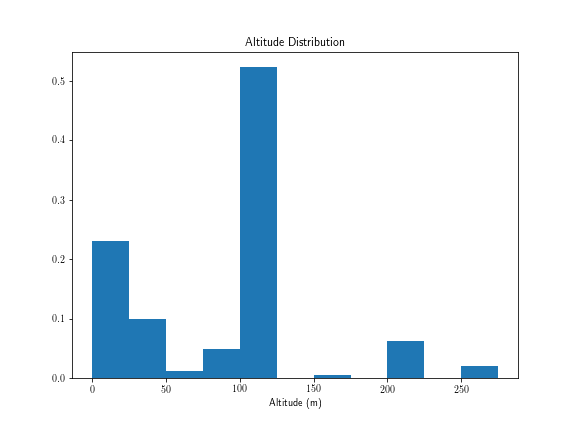
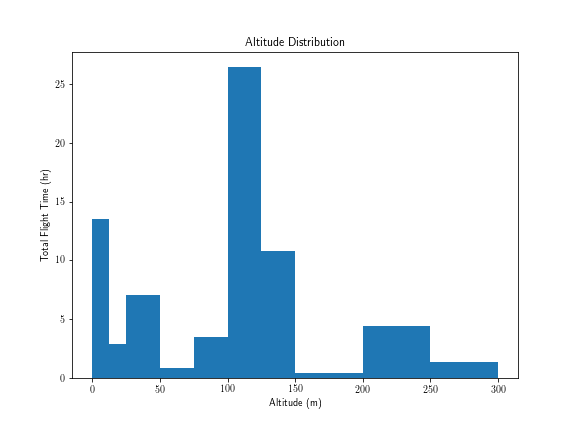
Updated old plots, added cruise_speed and flight_platforms

diff --git a/outputs/extents.html b/outputs/extents.html
@@ -23,7 +23,7 @@
             <meta name="viewport" content="width=device-width,
                 initial-scale=1.0, maximum-scale=1.0, user-scalable=no" />
             <style>
-                #map_323bf7a3beb649e986a7d09b306d6a6f {
+                #map_86d81129e9d8494ba6395b3a7c41fe23 {
                     position: relative;
                     width: 100.0%;
                     height: 100.0%;
@@ -35,18 +35,18 @@
 </head>
 <body>    
     
-            <div class="folium-map" id="map_323bf7a3beb649e986a7d09b306d6a6f" ></div>
+            <div class="folium-map" id="map_86d81129e9d8494ba6395b3a7c41fe23" ></div>
         
 </body>
 <script>    
     
-            var map_323bf7a3beb649e986a7d09b306d6a6f = L.map(
-                "map_323bf7a3beb649e986a7d09b306d6a6f",
+            var map_86d81129e9d8494ba6395b3a7c41fe23 = L.map(
+                "map_86d81129e9d8494ba6395b3a7c41fe23",
                 {
                     center: [32.61058644444444, -113.9595255],
                     crs: L.CRS.EPSG3857,
-                    zoomControl: true,
                     preferCanvas: false,
+                    zoomControl: true,
                     zoom: 4,
                 }
             );
@@ -55,19 +55,19 @@
 
         
     
-            var tile_layer_db0160daa50b471b8eaaeafa8e8aaa09 = L.tileLayer(
+            var tile_layer_270edd4af39c443f8cb472a4529f2bf8 = L.tileLayer(
                 "https://cartodb-basemaps-{s}.global.ssl.fastly.net/light_all/{z}/{x}/{y}.png",
                 {"attribution": "\u0026copy; \u003ca href=\"http://www.openstreetmap.org/copyright\"\u003eOpenStreetMap\u003c/a\u003e contributors \u0026copy; \u003ca href=\"http://cartodb.com/attributions\"\u003eCartoDB\u003c/a\u003e, CartoDB \u003ca href =\"http://cartodb.com/attributions\"\u003eattributions\u003c/a\u003e", "detectRetina": false, "maxNativeZoom": 18, "maxZoom": 18, "minZoom": 0, "noWrap": false, "opacity": 1, "subdomains": "abc", "tms": false}
-            ).addTo(map_323bf7a3beb649e986a7d09b306d6a6f);
+            ).addTo(map_86d81129e9d8494ba6395b3a7c41fe23);
         
     
-            var marker_f23ddd304cf541d78965924d82bb402d = L.marker(
+            var marker_33e94871ff084a46a90b004fc2279231 = L.marker(
                 [37.872001, -122.319992],
                 {}
-            ).addTo(map_323bf7a3beb649e986a7d09b306d6a6f);
+            ).addTo(map_86d81129e9d8494ba6395b3a7c41fe23);
         
     
-            marker_f23ddd304cf541d78965924d82bb402d.bindTooltip(
+            marker_33e94871ff084a46a90b004fc2279231.bindTooltip(
                 `<div>
                      Berkeley
                  </div>`,
@@ -75,19 +75,19 @@
             );
         
     
-            var polygon_b3b2bdcaf35542b2af3e2ad1618ff96a = L.polygon(
+            var polygon_a0600bbea90a4321be22e24b23c53f77 = L.polygon(
                 [[37.87132, -122.320851], [37.87132, -122.319133], [37.872682, -122.319133], [37.872682, -122.320851]],
                 {"bubblingMouseEvents": true, "color": "#3388ff", "dashArray": null, "dashOffset": null, "fill": false, "fillColor": "#3388ff", "fillOpacity": 0.2, "fillRule": "evenodd", "lineCap": "round", "lineJoin": "round", "noClip": false, "opacity": 1.0, "smoothFactor": 1.0, "stroke": true, "weight": 3}
-            ).addTo(map_323bf7a3beb649e986a7d09b306d6a6f);
+            ).addTo(map_86d81129e9d8494ba6395b3a7c41fe23);
         
     
-            var marker_d3bad7007b884733b00582d1bf5e514f = L.marker(
+            var marker_812b24cafa08449e983dcd8c7a7518eb = L.marker(
                 [37.8997885, -122.286862],
                 {}
-            ).addTo(map_323bf7a3beb649e986a7d09b306d6a6f);
+            ).addTo(map_86d81129e9d8494ba6395b3a7c41fe23);
         
     
-            marker_d3bad7007b884733b00582d1bf5e514f.bindTooltip(
+            marker_812b24cafa08449e983dcd8c7a7518eb.bindTooltip(
                 `<div>
                      Napa Valley
                  </div>`,
@@ -95,19 +95,19 @@
             );
         
     
-            var polygon_5badbc3ca671465baae60b4d60b42e57 = L.polygon(
+            var polygon_608e993549d946c0a5ea07d85d64e47f = L.polygon(
                 [[37.899743, -122.286919], [37.899743, -122.286805], [37.899834, -122.286805], [37.899834, -122.286919]],
                 {"bubblingMouseEvents": true, "color": "#3388ff", "dashArray": null, "dashOffset": null, "fill": false, "fillColor": "#3388ff", "fillOpacity": 0.2, "fillRule": "evenodd", "lineCap": "round", "lineJoin": "round", "noClip": false, "opacity": 1.0, "smoothFactor": 1.0, "stroke": true, "weight": 3}
-            ).addTo(map_323bf7a3beb649e986a7d09b306d6a6f);
+            ).addTo(map_86d81129e9d8494ba6395b3a7c41fe23);
         
     
-            var marker_55d7d26f839a4002b93318902ed5bdf5 = L.marker(
+            var marker_d2056784bd10407e910dd8c2ac36dde6 = L.marker(
                 [33.971118499999996, -117.344206],
                 {}
-            ).addTo(map_323bf7a3beb649e986a7d09b306d6a6f);
+            ).addTo(map_86d81129e9d8494ba6395b3a7c41fe23);
         
     
-            marker_55d7d26f839a4002b93318902ed5bdf5.bindTooltip(
+            marker_d2056784bd10407e910dd8c2ac36dde6.bindTooltip(
                 `<div>
                      Riverside
                  </div>`,
@@ -115,19 +115,19 @@
             );
         
     
-            var polygon_1890087a1dd9432484f23b0f9c5ca7b8 = L.polygon(
+            var polygon_c0edc0a19ba540339a9167ef36f3cf8b = L.polygon(
                 [[33.970074, -117.34535], [33.970074, -117.343062], [33.972163, -117.343062], [33.972163, -117.34535]],
                 {"bubblingMouseEvents": true, "color": "#3388ff", "dashArray": null, "dashOffset": null, "fill": false, "fillColor": "#3388ff", "fillOpacity": 0.2, "fillRule": "evenodd", "lineCap": "round", "lineJoin": "round", "noClip": false, "opacity": 1.0, "smoothFactor": 1.0, "stroke": true, "weight": 3}
-            ).addTo(map_323bf7a3beb649e986a7d09b306d6a6f);
+            ).addTo(map_86d81129e9d8494ba6395b3a7c41fe23);
         
     
-            var marker_2ec607e2ee91428a9524aa4181058aac = L.marker(
+            var marker_1c1cfcc258e44ace8db592beeed3b171 = L.marker(
                 [32.885363, -117.23518050000001],
                 {}
-            ).addTo(map_323bf7a3beb649e986a7d09b306d6a6f);
+            ).addTo(map_86d81129e9d8494ba6395b3a7c41fe23);
         
     
-            marker_2ec607e2ee91428a9524aa4181058aac.bindTooltip(
+            marker_1c1cfcc258e44ace8db592beeed3b171.bindTooltip(
                 `<div>
                      Warren Canyon
                  </div>`,
@@ -135,19 +135,19 @@
             );
         
     
-            var polygon_5ce3340e51c04f298f4994ae645d3967 = L.polygon(
+            var polygon_b2ab2961281447f9ba6fdf93dc0c003a = L.polygon(
                 [[32.882564, -117.23811], [32.882564, -117.232251], [32.888162, -117.232251], [32.888162, -117.23811]],
                 {"bubblingMouseEvents": true, "color": "#3388ff", "dashArray": null, "dashOffset": null, "fill": false, "fillColor": "#3388ff", "fillOpacity": 0.2, "fillRule": "evenodd", "lineCap": "round", "lineJoin": "round", "noClip": false, "opacity": 1.0, "smoothFactor": 1.0, "stroke": true, "weight": 3}
-            ).addTo(map_323bf7a3beb649e986a7d09b306d6a6f);
+            ).addTo(map_86d81129e9d8494ba6395b3a7c41fe23);
         
     
-            var marker_afee17038f4a41d2a35c0c7fb5db9c6e = L.marker(
+            var marker_76c8ad869b884773a8724e303d79ac0a = L.marker(
                 [32.859233, -117.231629],
                 {}
-            ).addTo(map_323bf7a3beb649e986a7d09b306d6a6f);
+            ).addTo(map_86d81129e9d8494ba6395b3a7c41fe23);
         
     
-            marker_afee17038f4a41d2a35c0c7fb5db9c6e.bindTooltip(
+            marker_76c8ad869b884773a8724e303d79ac0a.bindTooltip(
                 `<div>
                      La Jolla
                  </div>`,
@@ -155,19 +155,19 @@
             );
         
     
-            var polygon_fb592792d35649f4b5ec25d31721b186 = L.polygon(
+            var polygon_971bd8ddccf94418824e6988b2117465 = L.polygon(
                 [[32.859171, -117.231697], [32.859171, -117.231561], [32.859295, -117.231561], [32.859295, -117.231697]],
                 {"bubblingMouseEvents": true, "color": "#3388ff", "dashArray": null, "dashOffset": null, "fill": false, "fillColor": "#3388ff", "fillOpacity": 0.2, "fillRule": "evenodd", "lineCap": "round", "lineJoin": "round", "noClip": false, "opacity": 1.0, "smoothFactor": 1.0, "stroke": true, "weight": 3}
-            ).addTo(map_323bf7a3beb649e986a7d09b306d6a6f);
+            ).addTo(map_86d81129e9d8494ba6395b3a7c41fe23);
         
     
-            var marker_2d4197764fbd40379f7c4107bc872477 = L.marker(
+            var marker_50386160a541412b988a65015ab8db0b = L.marker(
                 [32.9904245, -117.1294915],
                 {}
-            ).addTo(map_323bf7a3beb649e986a7d09b306d6a6f);
+            ).addTo(map_86d81129e9d8494ba6395b3a7c41fe23);
         
     
-            marker_2d4197764fbd40379f7c4107bc872477.bindTooltip(
+            marker_50386160a541412b988a65015ab8db0b.bindTooltip(
                 `<div>
                      Black Mountain
                  </div>`,
@@ -175,19 +175,19 @@
             );
         
     
-            var polygon_f67e9b5807124b6a9529c8c1acd0c38d = L.polygon(
+            var polygon_255179fd7db143b995ab3e558b3ffa0e = L.polygon(
                 [[32.98801, -117.130834], [32.98801, -117.128149], [32.992839, -117.128149], [32.992839, -117.130834]],
                 {"bubblingMouseEvents": true, "color": "#3388ff", "dashArray": null, "dashOffset": null, "fill": false, "fillColor": "#3388ff", "fillOpacity": 0.2, "fillRule": "evenodd", "lineCap": "round", "lineJoin": "round", "noClip": false, "opacity": 1.0, "smoothFactor": 1.0, "stroke": true, "weight": 3}
-            ).addTo(map_323bf7a3beb649e986a7d09b306d6a6f);
+            ).addTo(map_86d81129e9d8494ba6395b3a7c41fe23);
         
     
-            var marker_b8f0a77b440e484aa533b9c4268413b9 = L.marker(
+            var marker_1e8e108976c942cfadab592c90793a3a = L.marker(
                 [32.6306515, -116.093162],
                 {}
-            ).addTo(map_323bf7a3beb649e986a7d09b306d6a6f);
+            ).addTo(map_86d81129e9d8494ba6395b3a7c41fe23);
         
     
-            marker_b8f0a77b440e484aa533b9c4268413b9.bindTooltip(
+            marker_1e8e108976c942cfadab592c90793a3a.bindTooltip(
                 `<div>
                      Valley of the Moon
                  </div>`,
@@ -195,19 +195,19 @@
             );
         
     
-            var polygon_2d089e1396f246209ec6612935b995b9 = L.polygon(
+            var polygon_9a281852fed94c3ea16da47d0092be36 = L.polygon(
                 [[32.630417, -116.093377], [32.630417, -116.092947], [32.630886, -116.092947], [32.630886, -116.093377]],
                 {"bubblingMouseEvents": true, "color": "#3388ff", "dashArray": null, "dashOffset": null, "fill": false, "fillColor": "#3388ff", "fillOpacity": 0.2, "fillRule": "evenodd", "lineCap": "round", "lineJoin": "round", "noClip": false, "opacity": 1.0, "smoothFactor": 1.0, "stroke": true, "weight": 3}
-            ).addTo(map_323bf7a3beb649e986a7d09b306d6a6f);
+            ).addTo(map_86d81129e9d8494ba6395b3a7c41fe23);
         
     
-            var marker_c8332141e38a45c1b1fbb2e4844d296b = L.marker(
+            var marker_6975d6192f3c4a06b4a273e98ad23fbf = L.marker(
                 [32.7126295, -115.93375599999999],
                 {}
-            ).addTo(map_323bf7a3beb649e986a7d09b306d6a6f);
+            ).addTo(map_86d81129e9d8494ba6395b3a7c41fe23);
         
     
-            marker_c8332141e38a45c1b1fbb2e4844d296b.bindTooltip(
+            marker_6975d6192f3c4a06b4a273e98ad23fbf.bindTooltip(
                 `<div>
                      Yuha Desert
                  </div>`,
@@ -215,19 +215,19 @@
             );
         
     
-            var polygon_abe6778401324ac58f05a5c3bad0c2cb = L.polygon(
+            var polygon_04c1472339e44297b94c4f823fb58759 = L.polygon(
                 [[32.708815, -115.935509], [32.708815, -115.932003], [32.716444, -115.932003], [32.716444, -115.935509]],
                 {"bubblingMouseEvents": true, "color": "#3388ff", "dashArray": null, "dashOffset": null, "fill": false, "fillColor": "#3388ff", "fillOpacity": 0.2, "fillRule": "evenodd", "lineCap": "round", "lineJoin": "round", "noClip": false, "opacity": 1.0, "smoothFactor": 1.0, "stroke": true, "weight": 3}
-            ).addTo(map_323bf7a3beb649e986a7d09b306d6a6f);
+            ).addTo(map_86d81129e9d8494ba6395b3a7c41fe23);
         
     
-            var marker_8f1d1a14f7fe40bc8e31213f8662649c = L.marker(
+            var marker_b98b9981aca6428db658f757b0a16628 = L.marker(
                 [19.674068499999997, -80.0614505],
                 {}
-            ).addTo(map_323bf7a3beb649e986a7d09b306d6a6f);
+            ).addTo(map_86d81129e9d8494ba6395b3a7c41fe23);
         
     
-            marker_8f1d1a14f7fe40bc8e31213f8662649c.bindTooltip(
+            marker_b98b9981aca6428db658f757b0a16628.bindTooltip(
                 `<div>
                      Cayman Islands
                  </div>`,
@@ -235,9 +235,9 @@
             );
         
     
-            var polygon_35487d7ee35649d2924acadcd222cb36 = L.polygon(
+            var polygon_633dbbe135544cb984a952be6556a628 = L.polygon(
                 [[19.657707, -80.110426], [19.657707, -80.012475], [19.69043, -80.012475], [19.69043, -80.110426]],
                 {"bubblingMouseEvents": true, "color": "#3388ff", "dashArray": null, "dashOffset": null, "fill": false, "fillColor": "#3388ff", "fillOpacity": 0.2, "fillRule": "evenodd", "lineCap": "round", "lineJoin": "round", "noClip": false, "opacity": 1.0, "smoothFactor": 1.0, "stroke": true, "weight": 3}
-            ).addTo(map_323bf7a3beb649e986a7d09b306d6a6f);
+            ).addTo(map_86d81129e9d8494ba6395b3a7c41fe23);
         
 </script>
